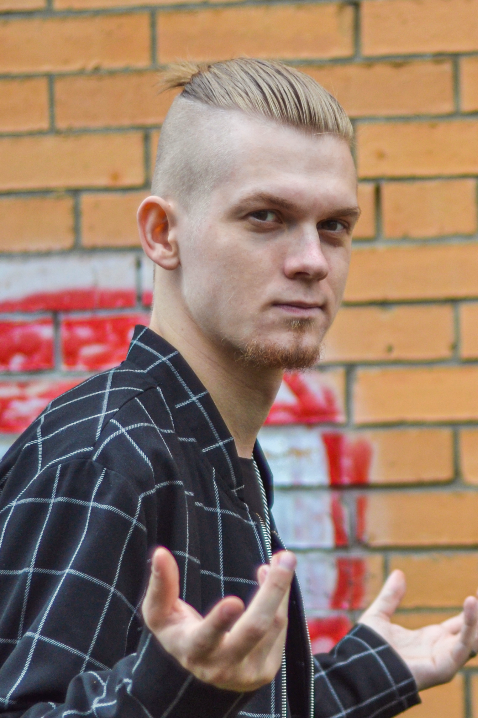
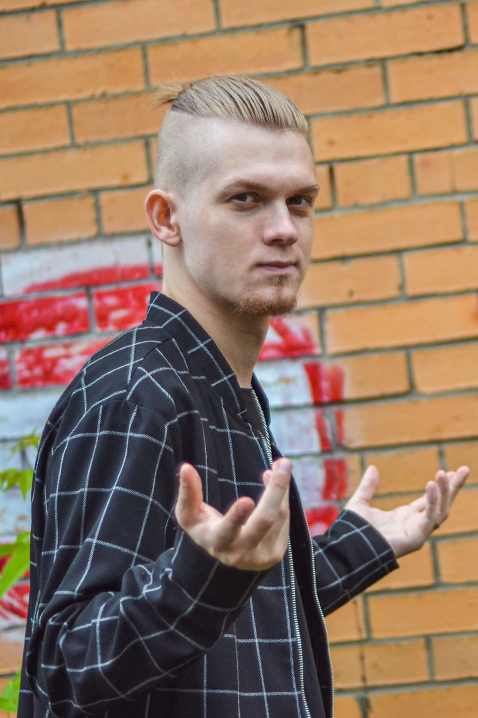
change teacher photo

diff --git a/index.html b/index.html
@@ -132,7 +132,7 @@
       <div class="teacher__card">
         <div class="teacher__photo-and-name">
           <img
-            src="./assets/peoples/yana-ebalo-2.png"
+            src="./assets/peoples/vlad-ebalo.png"
             alt="teacher__photo"
             class="teacher__photo"
           />
